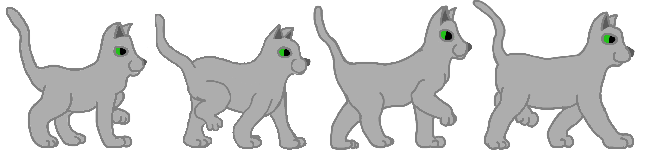
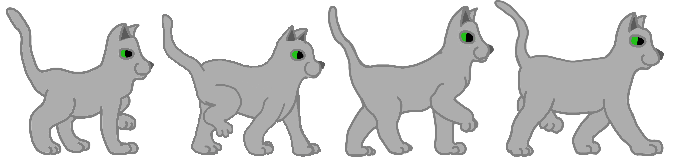
catfix 4

diff --git a/game.cpp b/game.cpp
@@ -139,7 +139,7 @@ void Game::createObjects(){
     anims["pot"] = new Anim(&assets.pot);
     anims["catIdle"] = new Anim(&assets.catIdle);
     anims["catPrankBookThrow"] = new Anim(&assets.catPrankBookThrow);
-    anims["catMove"] = new Anim(&assets.catMove, 676, sf::milliseconds(300));
+    anims["catMove"] = new Anim(&assets.catMove, 170, sf::milliseconds(300));
     anims["doorRight"] = new Anim(&assets.doorRight);
     anims["clock"] = new Anim(&assets.clock);
     anims["clockHand"] = new Anim(&assets.clockHand);
